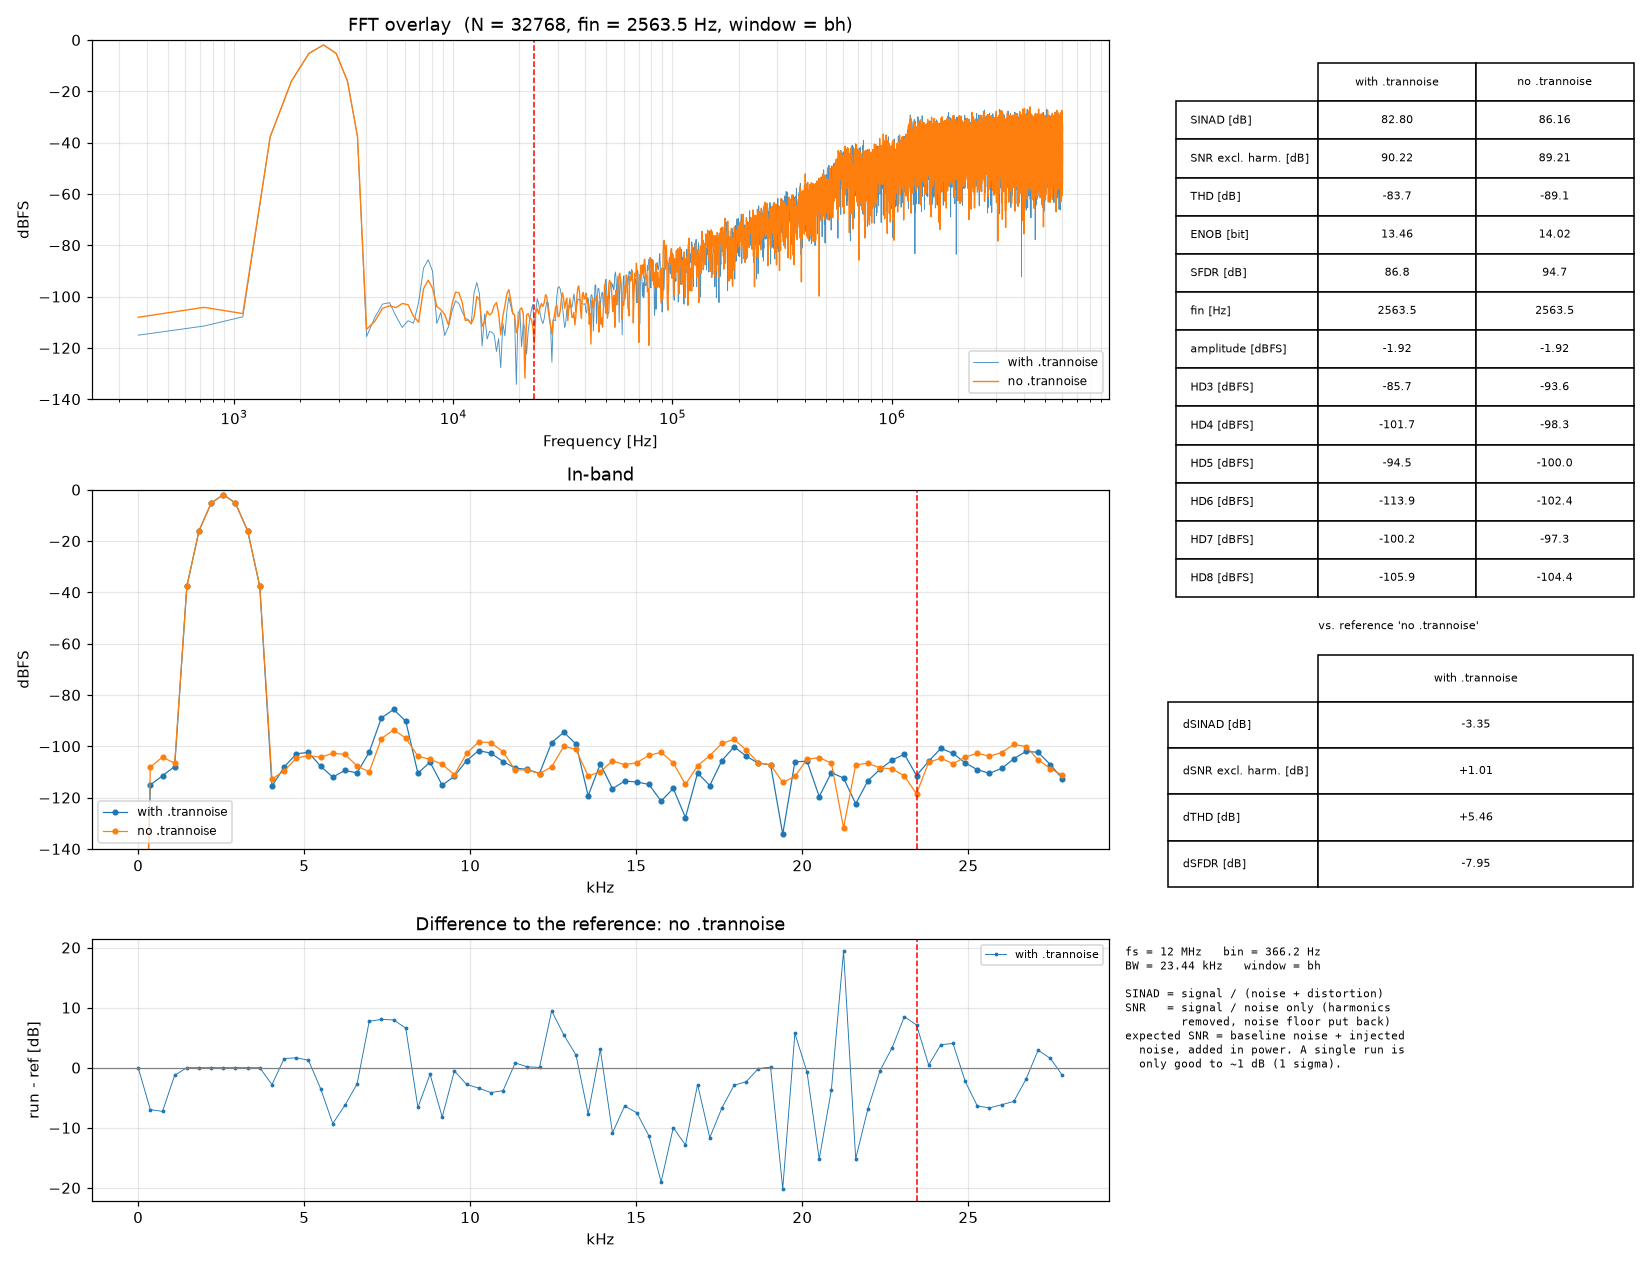
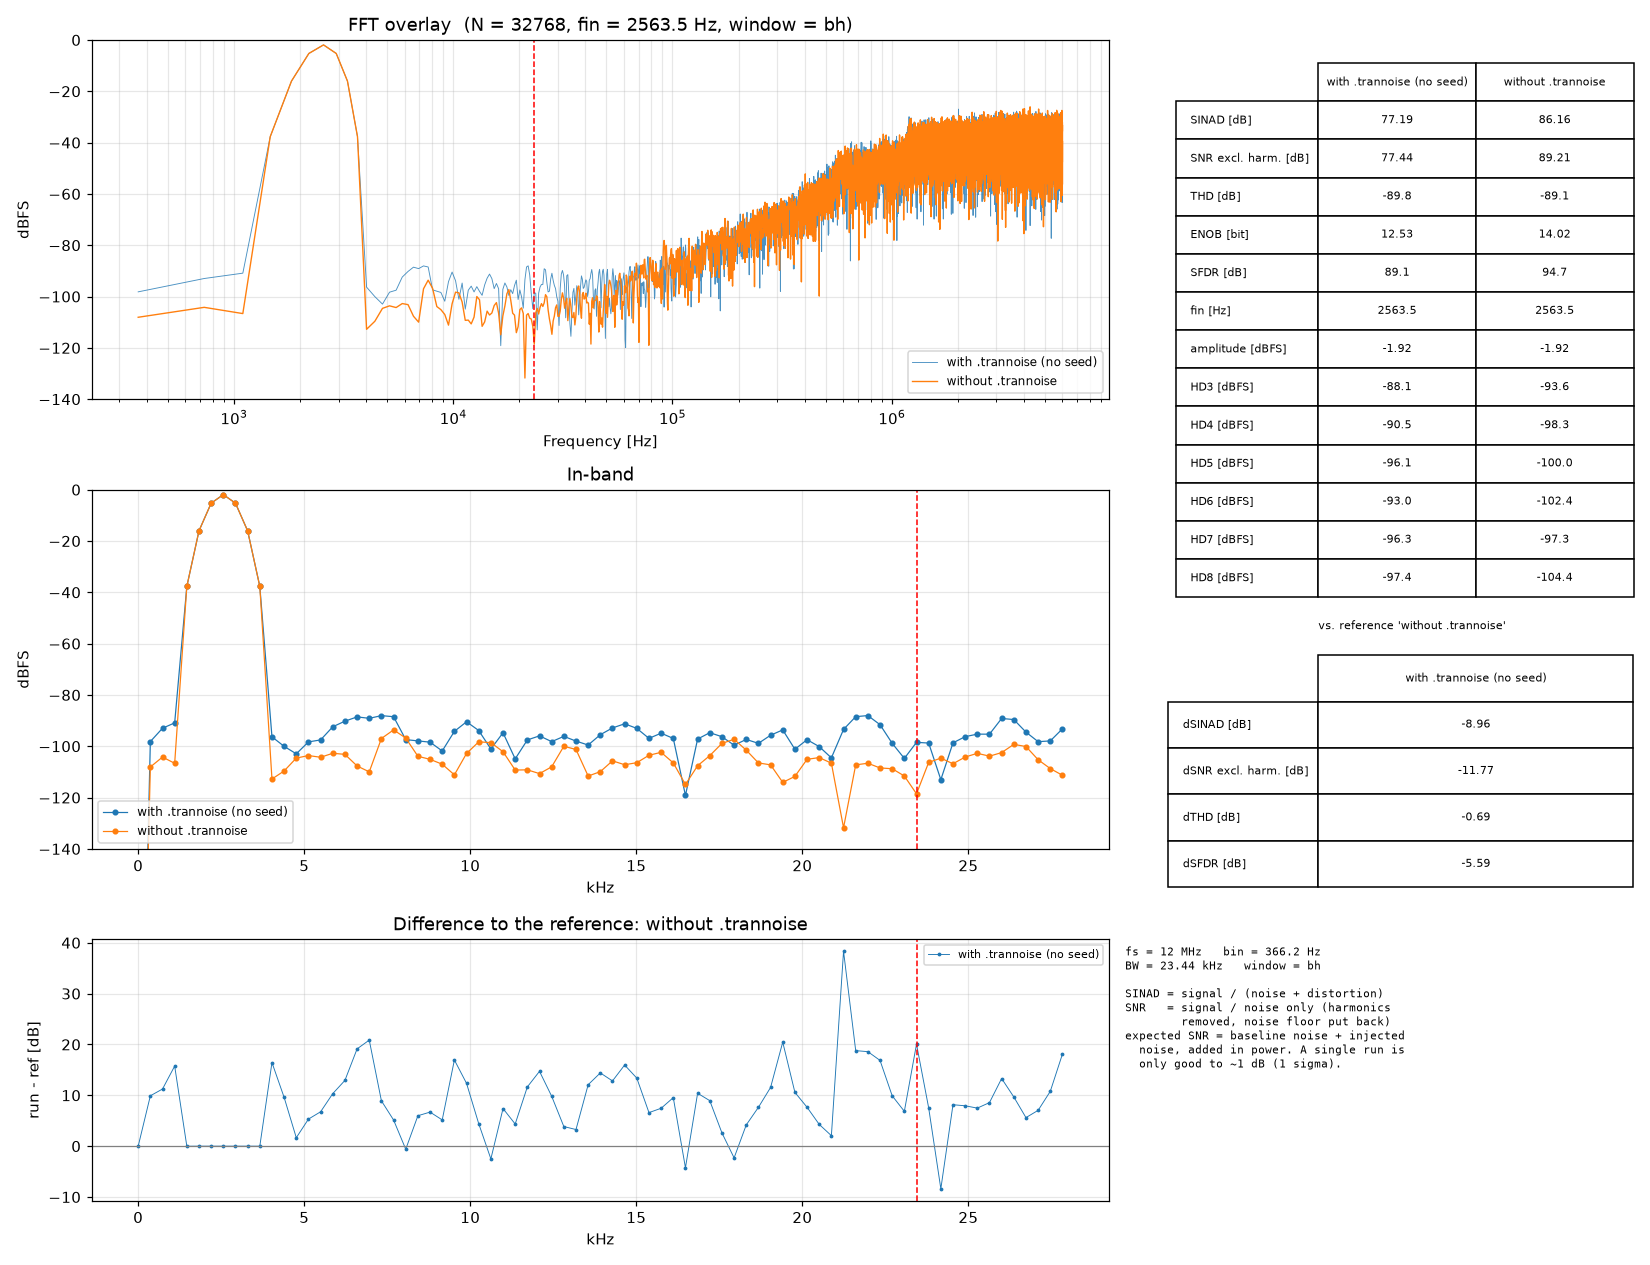
Add trannoise (no seed) N=32768 run; point run_compare_noise at it
Claude-Session: https://claude.ai/code/session_017nRNj88iHifrfHL9Eotfk6

diff --git a/run_compare_noise.py b/run_compare_noise.py
@@ -7,7 +7,7 @@ import sys
 # ---------------- settings ----------------
 # (file, label, injected SNR = None).  The reference run is the one at REF (-1 = last = without noise).
 FILES = [
-    ("adcfft_withnoise_1151005.txt", "with .trannoise",    None),
+    ("adcfft_withnoise32768_1151012.txt", "with .trannoise (no seed)", None),
     ("adcfft_nonoise_1151006.txt",   "without .trannoise", None),
 ]
 REF = -1                   # index of the reference run
